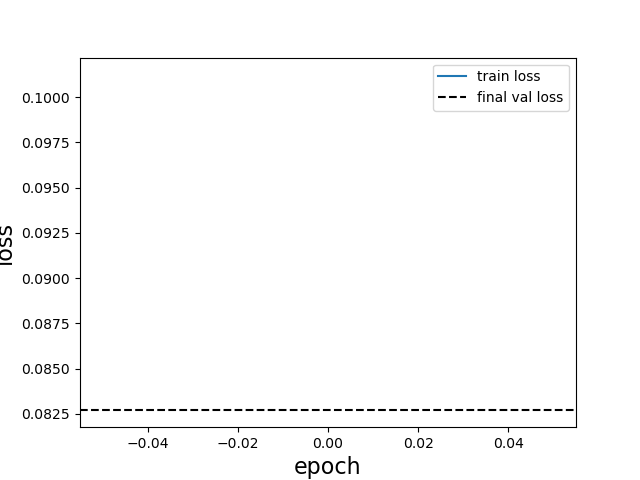
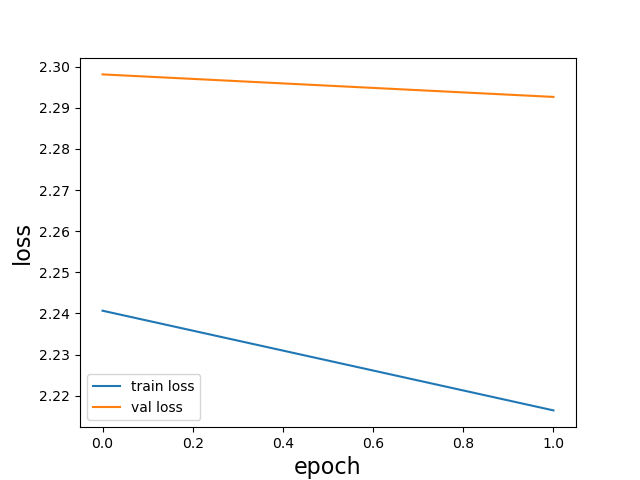
updates

diff --git a/neural_net_utils/core_test_train.py b/neural_net_utils/core_test_train.py
@@ -1,9 +1,10 @@
 import torch
 import torch.nn as nn
 
-def train(train_loader, model, optimizer, criterion, device, save_location,
+def train(train_loader, val_dataloader, model, optimizer, criterion, device, save_location,
         n_epochs, start_epoch, use_parallel, scheduler, save_mod, print_mod, ):
     train_loss = []
+    val_loss = []
     for e in range(start_epoch, n_epochs+1):
         model.train()
         avg_loss = 0
@@ -12,14 +13,14 @@ def train(train_loader, model, optimizer, criterion, device, save_location,
             y = y.to(device)
             optimizer.zero_grad()
             yhat = model(x)
-            print(yhat.shape, yhat.dtype)
-            print(y.shape, y.dtype)
             loss = criterion(yhat, y)
             avg_loss += loss.item()
             loss.backward()
             optimizer.step()
         avg_loss /= (t+1)
         train_loss.append(avg_loss)
+
+        val_loss.append(test(val_dataloader, model, optimizer, criterion, device))
 
         if scheduler is not None:
             scheduler.step()
@@ -35,17 +36,19 @@ def train(train_loader, model, optimizer, criterion, device, save_location,
                             'epoch': e,
                             'optimizer_state_dict': optimizer.state_dict(),
                             'scheduler_state_dict': scheduler.state_dict(),
-                            'train_loss': train_loss},
+                            'train_loss': train_loss,
+                            'val_loss': val_loss},
                             save_location)
             else:
                 torch.save({'model_state_dict': model_state,
                             'epoch': e,
                             'optimizer_state_dict': optimizer.state_dict(),
                             'scheduler_state_dict': None,
-                            'train_loss': train_loss},
+                            'train_loss': train_loss,
+                            'val_loss': val_loss},
                             save_location)
 
-    return train_loss
+    return train_loss, val_loss
 
 def test(loader, model, optimizer, criterion, device):
     model.eval()

diff --git a/neural_net_utils/utils.py b/neural_net_utils/utils.py
@@ -379,10 +379,9 @@ def plotModelFromDir(dir, model, ofile):
     plt.savefig(os.path.join('images', ofile))
     plt.close()
 
-def plotModelFromArrays(train_loss_arr, ofile, val_loss = None):
+def plotModelFromArrays(train_loss_arr, val_loss_arr, ofile):
     plt.plot(np.arange(0, len(train_loss_arr)), train_loss_arr, label = 'train loss')
-    if val_loss is not None:
-        plt.axhline(y = val_loss, color = 'black', linestyle = '--', label = 'final val loss')
+    plt.plot(np.arange(0, len(val_loss_arr)), val_loss_arr, label = 'val loss')
     plt.xlabel('epoch', fontsize = 16)
     plt.ylabel('loss', fontsize = 16)
     plt.legend()
@@ -449,7 +448,7 @@ def getBaseParser():
 
     # train args
     parser.add_argument('--start_epoch', type=int, default=1, help='Starting epoch')
-    parser.add_argument('--n_epochs', type=int, default=1, help='Number of epochs to train for')
+    parser.add_argument('--n_epochs', type=int, default=2, help='Number of epochs to train for')
     parser.add_argument('--save_mod', type=int, default=5, help='How often to save')
     parser.add_argument('--print_mod', type=int, default=2, help='How often to print')
     parser.add_argument('--lr', type=float, default=1e-3, help='Learning eate. Default=0.001')
@@ -458,7 +457,7 @@ def getBaseParser():
     parser.add_argument('--gamma', type=float, default=0.1, help='Gamma for lr decay')
 
     # model args
-    parser.add_argument('--data_folder', type=str, default='dataset_04_18_21', help='Location of data')
+    parser.add_argument('--data_folder', type=str, default='test', help='Location of data')
     parser.add_argument('--pretrained', type=bool, default=False)
     parser.add_argument('--resume_training', type=bool, default=False)
     parser.add_argument('--ifile_folder', type=str, default='models/', help='Location of input file for pretrained model')

diff --git a/UNet.py b/UNet.py
@@ -115,15 +115,14 @@ def main():
     if opt.cuda:
         model.to(opt.device)
 
-    train_loss_arr = train(train_dataloader, model, optimizer,
+    train_loss_arr, val_loss_arr = train(train_dataloader, val_dataloader, model, optimizer,
             criterion, device = opt.device, save_location = os.path.join(opt.ofile_folder, opt.ofile + '.pt'),
             n_epochs = opt.n_epochs, start_epoch = opt.start_epoch, use_parallel = opt.use_parallel,
             scheduler = scheduler, save_mod = opt.save_mod, print_mod = opt.print_mod)
-    val_loss = test(val_dataloader, model, optimizer, criterion, opt.device)
 
     print('Total time: {}'.format(time.time() - t0))
-    print('Val loss: {}'.format(val_loss))
-    plotModelFromArrays(train_loss_arr, opt.ofile + '_train_val_loss.png', val_loss)
+    print('Final val loss: {}'.format(val_loss_arr[-1]))
+    plotModelFromArrays(train_loss_arr, val_loss_arr, opt.ofile + '_train_val_loss.png') # TODO
 
 if __name__ == '__main__':
     main()

diff --git a/neural_net_utils/dataset_classes.py b/neural_net_utils/dataset_classes.py
@@ -29,7 +29,7 @@ class Sequences2Contacts(Dataset):
         self.paths = sorted(make_dataset(dirname, minSample = min_sample))
 
     def __getitem__(self, index):
-
+        ydtype = torch.float32
         if self.y_norm is None:
             y_path = os.path.join(self.paths[index], 'y.npy')
             y = np.load(y_path)
@@ -39,6 +39,7 @@ class Sequences2Contacts(Dataset):
         elif self.y_norm == 'prcnt':
             y_path = os.path.join(self.paths[index], 'y_prcnt_norm.npy')
             y = np.load(y_path)
+            ydtype = torch.int64
         else:
             print("Warning: Unknown norm: {}".format(self.y_norm))
             y_path = os.path.join(self.paths[index], 'y.npy')
@@ -69,7 +70,7 @@ class Sequences2Contacts(Dataset):
 
         else:
             x = torch.Tensor(x)
-            y = torch.Tensor(y)
+            y = torch.Tensor(y).type(ydtype)
             return x, y
 
     def __len__(self):
